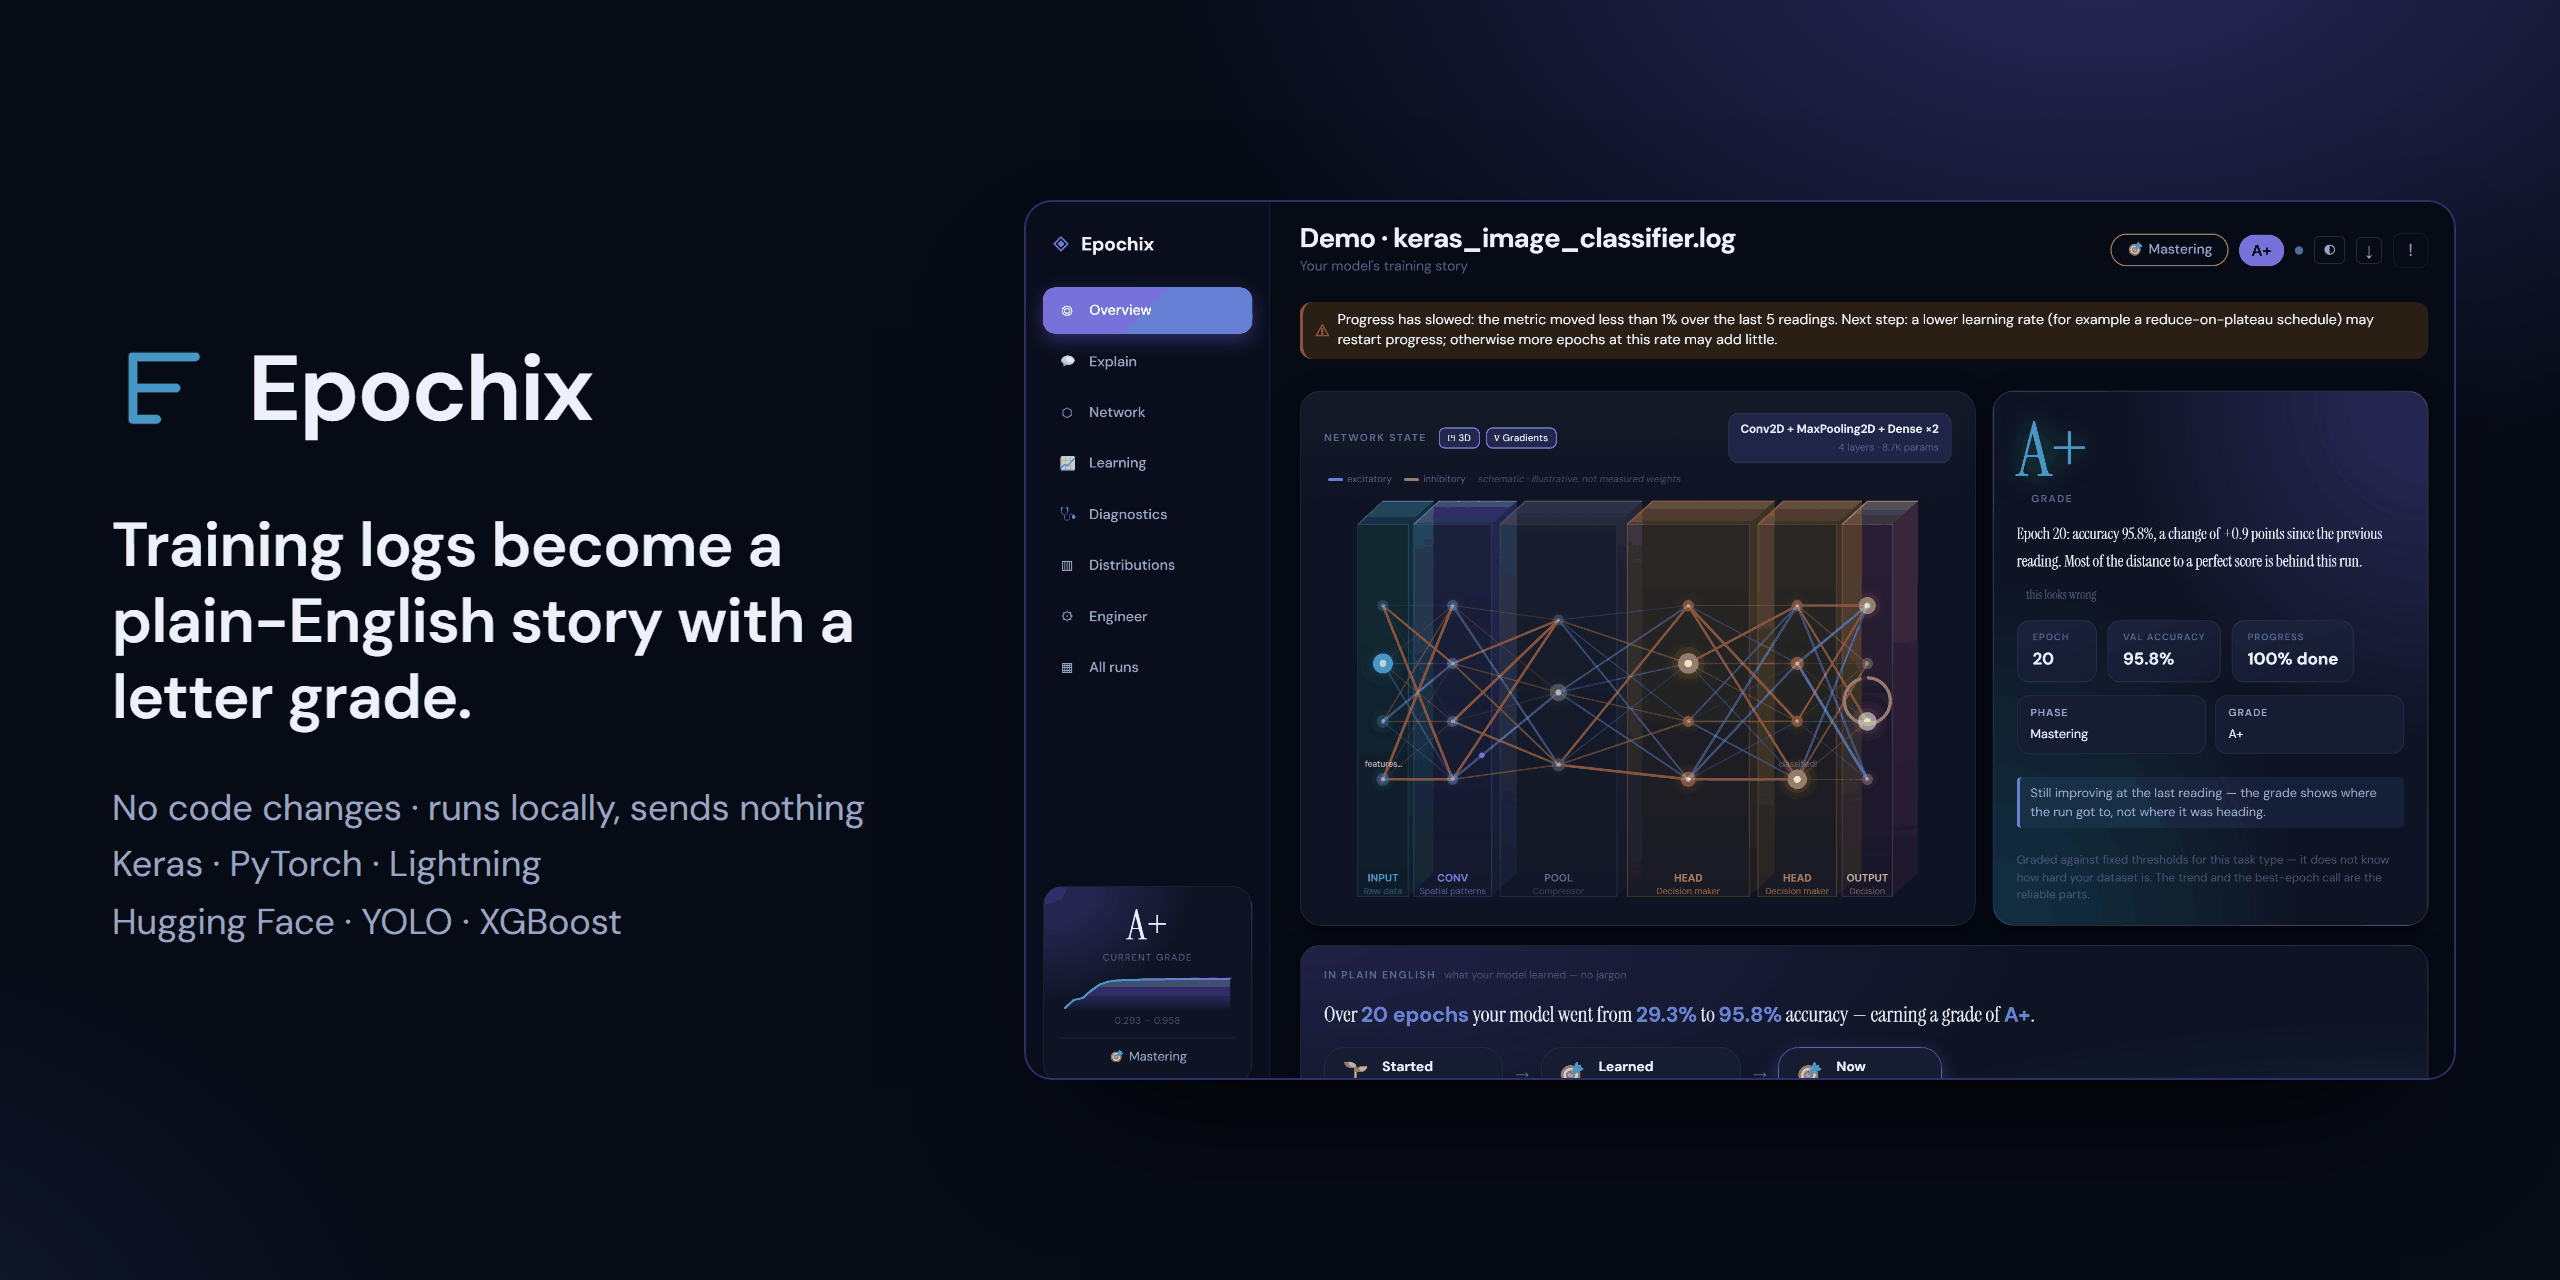
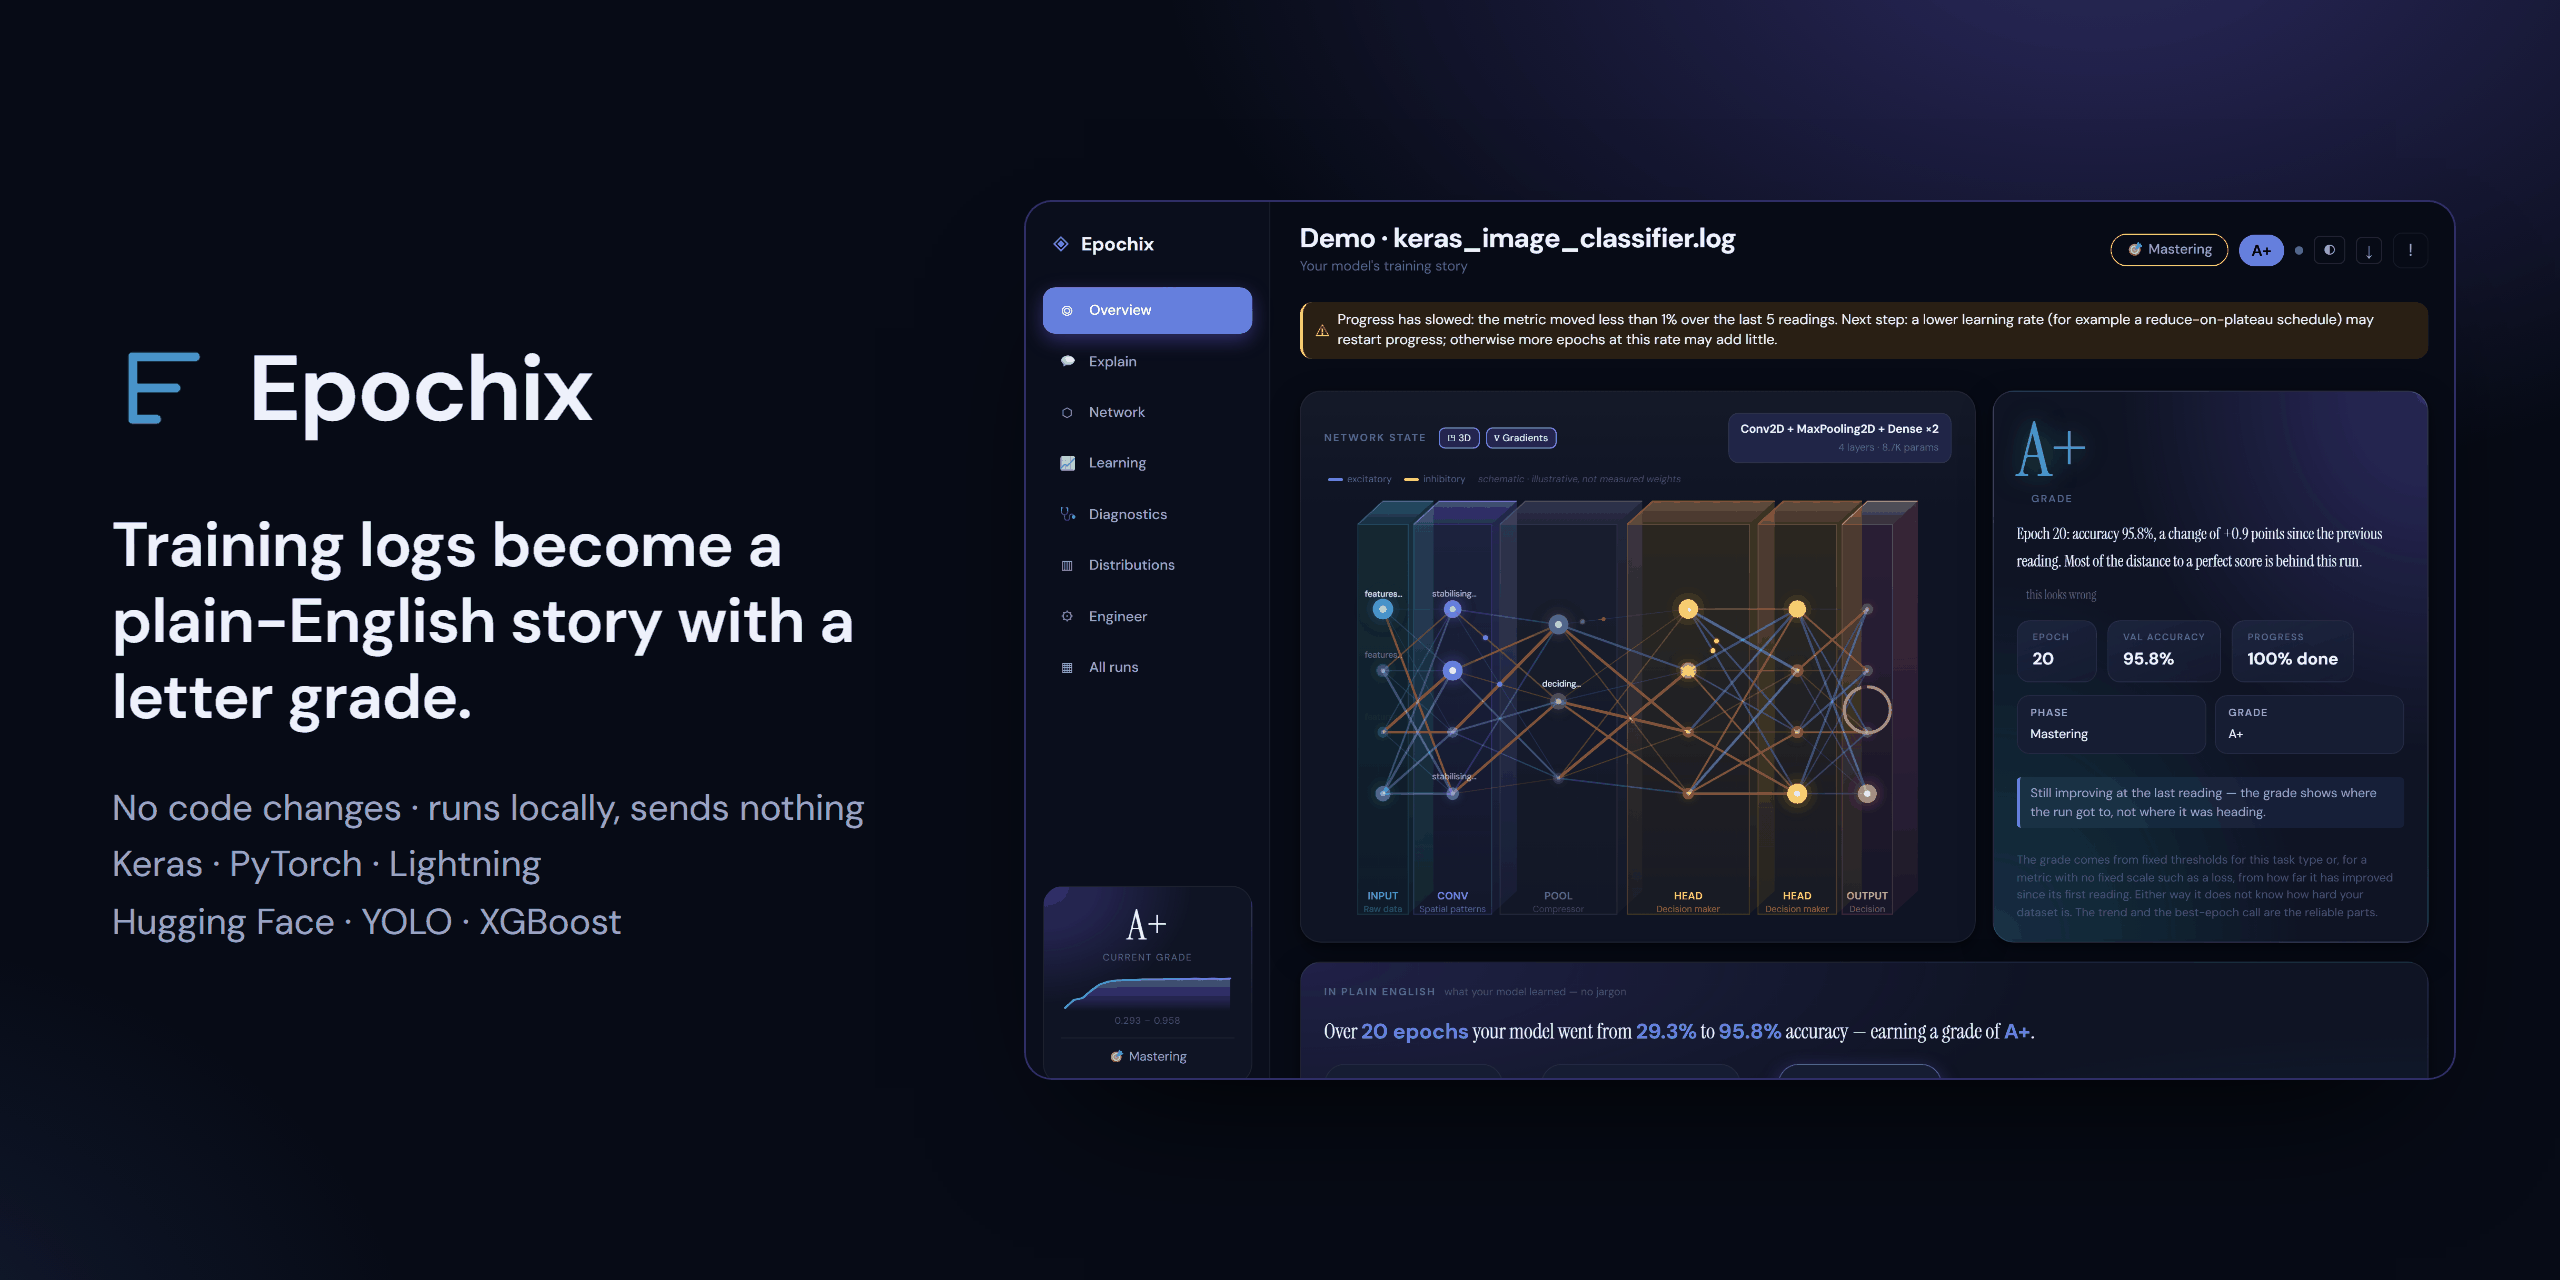
fix(dashboard): the grade caveat names both ways a grade is reached
The sentence under the grade read "Graded against fixed thresholds for
this task type". A metric with no fixed scale - any loss, an AUC - is
graded on how far it improved since its first reading, so the sentence
was false for every such run. It names both now, in en/fr/fa, and a test
keeps index.html's copy the same as the dictionary's.

ROADMAP: two open items - bands for AUC/F1 (a real LightGBM run at 0.984
validation AUC grades C- on improvement), and carrying the grading basis
on the frame so only the true sentence is shown.

Social image and README GIF re-recorded with the corrected card.

Changed region(s): [[0.5, 0.6562, 0.9375, 0.8438], [0.5312, 0.4688, 0.75, 0.625]]

diff --git a/frontend/src/tests/grade-caveat.test.js b/frontend/src/tests/grade-caveat.test.js
@@ -1,0 +1,51 @@
+/**
+ * The sentence under the grade says how the grade was reached — both ways.
+ *
+ * It read "Graded against fixed thresholds for this task type". That is false
+ * for every run graded on improvement: any loss-only log, an XGBoost log loss,
+ * a LightGBM AUC. A real LightGBM classifier at 98.4% validation AUC was shown
+ * a C- under that sentence — the letter measured how little the AUC had moved,
+ * and the card said it measured where it stood.
+ *
+ * Which way a particular run was graded is not on the frame, so the sentence
+ * names both rather than the one that is usually true.
+ */
+import { describe, it, expect } from 'vitest';
+import fs from 'node:fs';
+import path from 'node:path';
+import { fileURLToPath } from 'node:url';
+
+import en from '../i18n/en.json';
+import fa from '../i18n/fa.json';
+import fr from '../i18n/fr.json';
+
+const HERE = path.dirname(fileURLToPath(import.meta.url));
+const INDEX = path.resolve(HERE, '..', '..', 'index.html');
+
+// The words each language uses for the two ways a grade is reached.
+const BOTH_WAYS = {
+  en: [en, 'thresholds', 'improved'],
+  fr: [fr, 'seuils', 'progression'],
+  fa: [fa, 'آستانه', 'بهبود'],
+};
+
+describe('the grade caveat', () => {
+  for (const [locale, [dict, thresholds, improvement]] of Object.entries(BOTH_WAYS)) {
+    it(`names both ways a grade is reached (${locale})`, () => {
+      const text = dict.ui.gradeCaveat;
+      expect(text).toContain(thresholds);
+      expect(text).toContain(improvement);
+    });
+  }
+
+  it('does not say every grade is a threshold grade', () => {
+    expect(en.ui.gradeCaveat).not.toMatch(/^Graded against fixed thresholds/);
+  });
+
+  it('is the same sentence in the page before the dictionary loads', () => {
+    const html = fs.readFileSync(INDEX, 'utf8');
+    const m = html.match(/data-i18n="ui\.gradeCaveat">([^<]+)</);
+    expect(m, 'index.html lost its grade caveat').toBeTruthy();
+    expect(m[1].replace(/\s+/g, ' ').trim()).toBe(en.ui.gradeCaveat);
+  });
+});

diff --git a/frontend/index.html b/frontend/index.html
@@ -117,12 +117,17 @@
           <!-- Why this letter deserves less weight than it looks, when the log
                says so: few readings, or a metric still setting new bests. -->
           <p class="grade-note" id="grade-note" hidden></p>
-          <!-- The grade is an absolute threshold per task type. It knows the
+          <!-- The grade is an absolute threshold per task type, or — for a
+               metric with no fixed scale — how far it improved. It knows the
                metric but not the dataset, so 85% on MNIST and 85% on ImageNet
-               grade alike. Say so rather than let the letter imply otherwise. -->
-          <p class="grade-caveat" data-i18n="ui.gradeCaveat">Graded against fixed
-            thresholds for this task type — it does not know how hard your dataset
-            is. The trend and the best-epoch call are the reliable parts.</p>
+               grade alike. Say so rather than let the letter imply otherwise.
+               The sentence once named only the thresholds, which was false for
+               every run graded on improvement (any loss-only log). -->
+          <p class="grade-caveat" data-i18n="ui.gradeCaveat">The grade comes from
+            fixed thresholds for this task type or, for a metric with no fixed
+            scale such as a loss, from how far it has improved since its first
+            reading. Either way it does not know how hard your dataset is. The
+            trend and the best-epoch call are the reliable parts.</p>
         </div>
       </section>
 

diff --git a/ROADMAP.md b/ROADMAP.md
@@ -24,7 +24,23 @@ taught live in [AGENTS.md](AGENTS.md).
 
 ## Open
 
-Nothing at the moment.
+- **A bounded metric with no bands of its own is graded on improvement, and
+  that can read as harsh.** A real LightGBM classifier
+  (`tests/fixtures/logs/lightgbm_real_classifier.log`) ends at a validation
+  AUC of 0.9836 and is graded **C−**: only accuracy has classification bands,
+  so AUC is scored by how far it moved from its first reading (0.9631, a 2.1%
+  gain). The letter is the improvement rule working as written, and the card
+  now says a grade may come from improvement — but a reader sees 98.4% beside
+  a C−. AUC, F1 and mAP outside their own task are the same. This needs a
+  decision, not a patch: give AUC (0.5 is chance, 1.0 perfect) and F1 bands of
+  their own in `grade._METRIC_THRESHOLDS`, as R² has, or keep grading them on
+  improvement. Bands are a judgement and must be written down as one.
+- **Say which way this run was graded.** The sentence under the grade names
+  both ways a grade is reached (fixed thresholds, or improvement since the
+  first reading) because a frame does not record which applied. Carry it on
+  the frame — a `grade_basis` beside `grade_note`: model, store column and
+  migration, the TypeScript engine and its goldens, the exports — and show
+  only the sentence that is true of the run.
 
 ---
 

diff --git a/docs/existing-runs.md b/docs/existing-runs.md
@@ -105,8 +105,9 @@ or coordinate a team. Those are what a tracker is for, and W&B, MLflow and
 Neptune do them well.
 
 It also refuses to state things it cannot support. A grade is compared against
-absolute per-task thresholds, so it cannot know that 85% on your dataset is
-excellent where 85% on MNIST is poor — and the dashboard says so on the card
-rather than leaving you to assume otherwise. Metric values that are impossible
+absolute per-task thresholds — or, for a metric with no fixed scale such as a
+loss, measured by how far it improved — so it cannot know that 85% on your
+dataset is excellent where 85% on MNIST is poor, and the dashboard says so on
+the card rather than leaving you to assume otherwise. Metric values that are impossible
 for the quantity in question are reported as impossible instead of narrated as
 fact.

diff --git a/CHANGELOG.md b/CHANGELOG.md
@@ -80,6 +80,9 @@ console output, read it. XGBoost read correctly. The others did not.
   being viewed.
 - **The Markdown report listed a withdrawn warning, and then its withdrawal**,
   both under a warning sign. It lists the warnings that stand at the end.
+- **The sentence under the grade said every grade came from fixed
+  thresholds.** A metric with no fixed scale — any loss, an AUC — is graded on
+  how far it improved since its first reading, and the sentence now says so.
 
 ### Changed — the bundled demos are recorded runs
 
